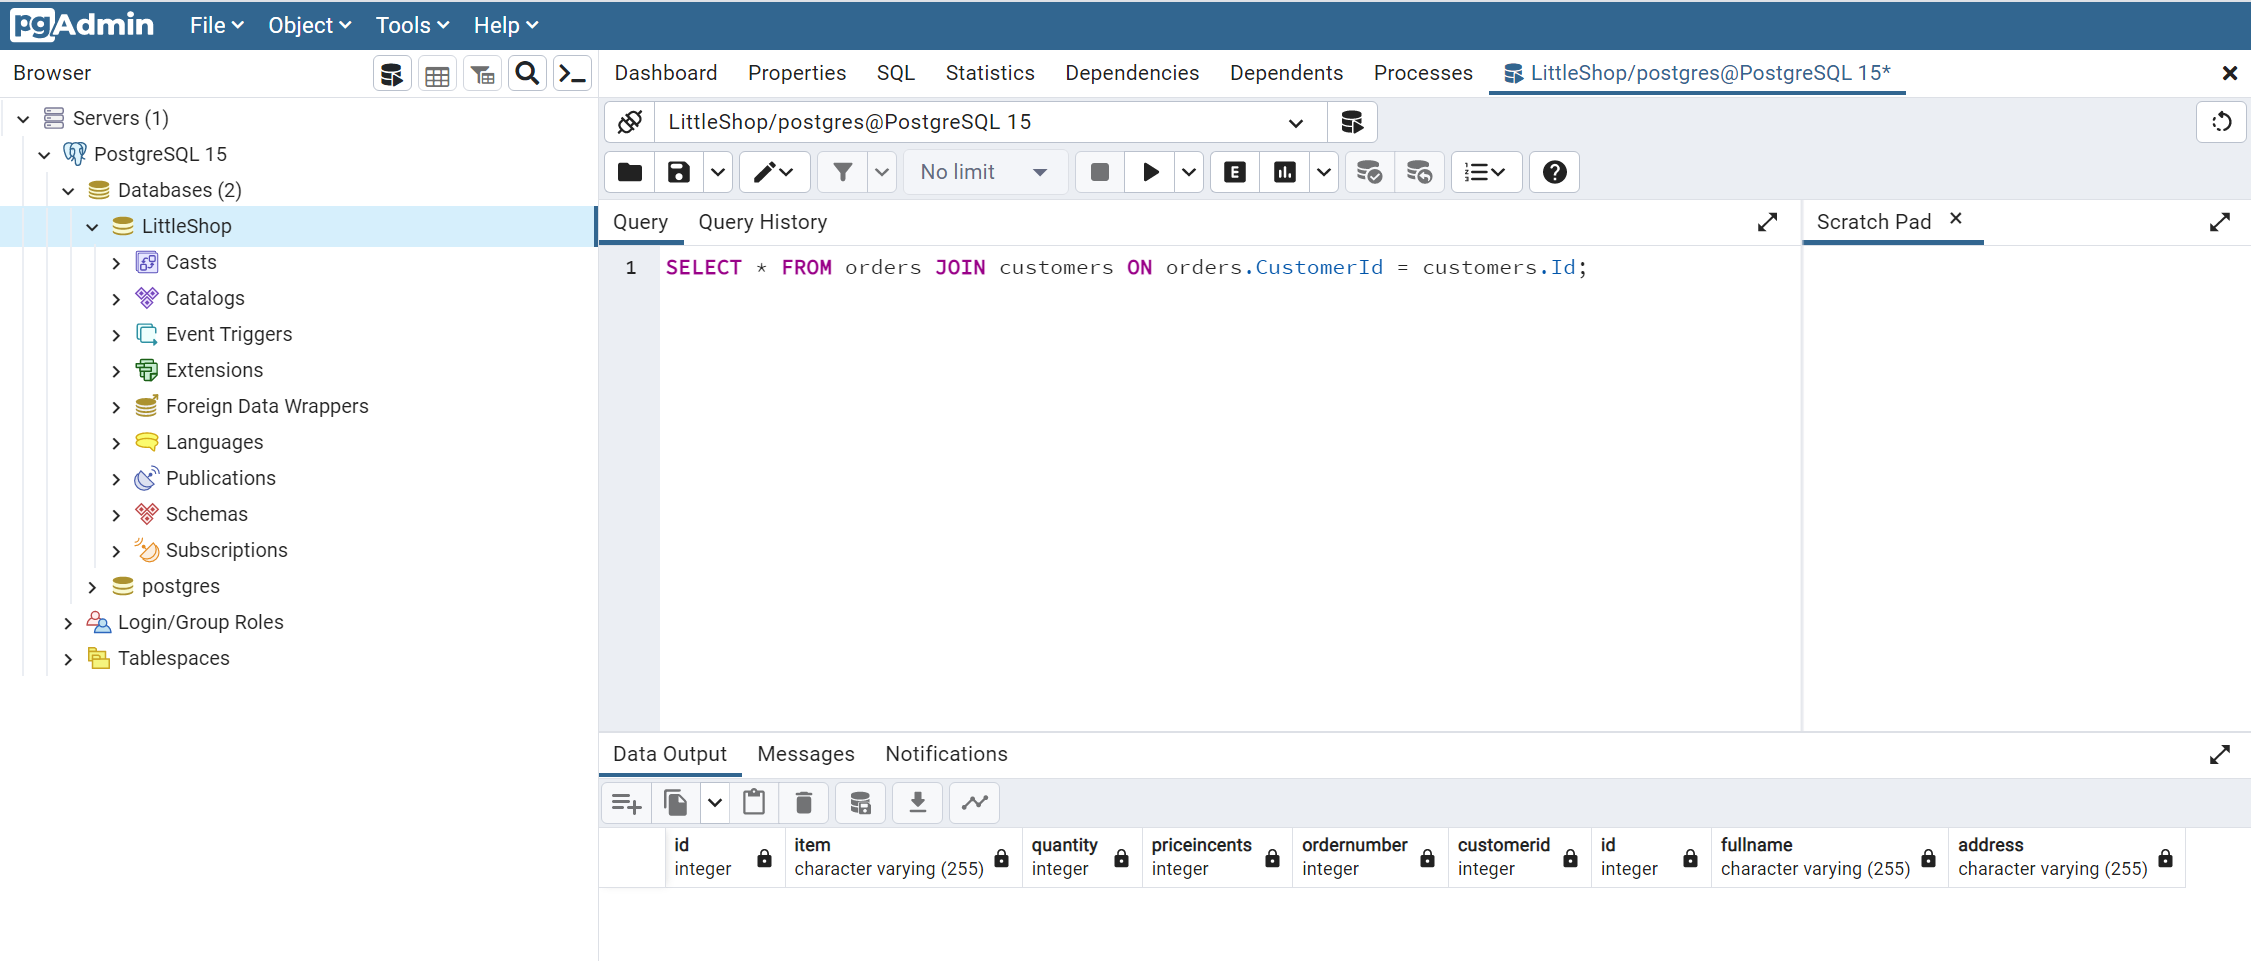
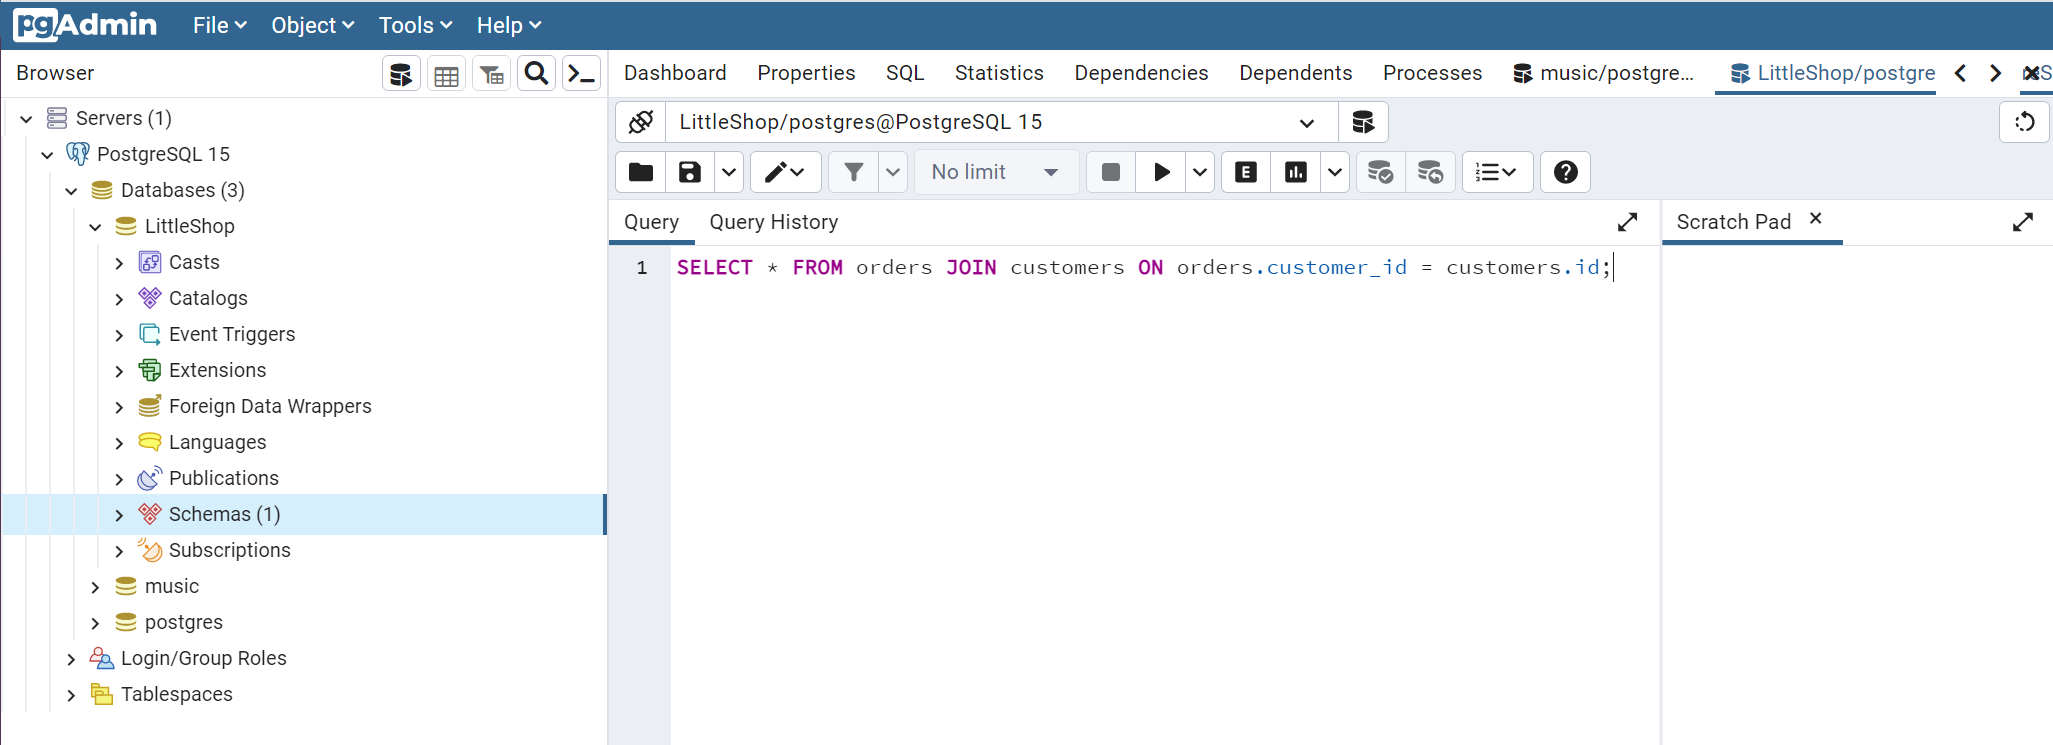
Update sql columns to snake case

diff --git a/Mod2/Lessons/Week1/SQLCRUD.md b/Mod2/Lessons/Week1/SQLCRUD.md
@@ -81,8 +81,12 @@ Occasionally, we will need to update records.  We can do that with the `UPDATE` 
 >
 > Be ready to share out!
 > 
-> ![](/Mod2/Images/Week1/SQL_UPDATE.png)
-
+##### Update Donovan Castle's Address
+```SQL
+UPDATE customers
+SET address = '1700 Emerson Dr'
+WHERE full_name = 'Domovan Castle';
+```
 ** Instructor Note ** Be sure to point out that if we forget the `WHERE`, all records in the table will be updated! You could type out an update without a where clause, ask for predictions from students, and then run it and show how everything changes so folks can really feel what happens.
 
 ### Practice UPDATE
@@ -107,8 +111,19 @@ Seeing the state of an entire table is great, and with a small dataset, it might
 > * Given these examples, what does `*` indicate?
 > 
 > Be ready to share out!
-> 
-> ![](/Mod2/Images/Week1/SQL_SELECT.png)
+>##### Option 1
+>```SQL
+>SELECT full_name FROM customers;
+>```
+>
+>##### Option 2
+>```SQL
+>SELECT full_name, address FROM >customers WHERE id = 2;
+>```
+>##### Option 3
+>```SQL
+>SELECT * from customers WHERE id = 2;
+>```
 
 ### Practice SELECT
 
@@ -123,8 +138,17 @@ Seeing the state of an entire table is great, and with a small dataset, it might
 
 There are so many things we can do by combining SELECT with other commands.  We have seen how we can use SELECT and WHERE together; take a look at the examples below for some more ways of SELECTing.  Try these out on your tables to explore what they do!
 
-![](/Mod2/Images/Week1/SQL_ORDERBY.png)
+##### Order the result alphabetically by first name
+```SQL
+SELECT * FROM customers ORDER BY full_name;
+```
 
+##### Return only the item column from all of customer 1's orders, order the result by price, from high to low
+```SQL
+SELECT item FROM orders
+WHERE customer_id = 1
+ORDER BY price_in_cents DESC;
+```
 ## Check for Understanding
 * Imagine you are in an interview.  The interviewer asks: How would you describe CRUD? (make sure to use examples!)
 * Why do we need to use a `WHERE` when deleting or updating records?

diff --git a/Mod2/Labs/Week3/SQLJoins.md b/Mod2/Labs/Week3/SQLJoins.md
@@ -12,21 +12,21 @@ DROP TABLE books, patrons;
 
 CREATE TABLE patrons (
 	id serial PRIMARY KEY,
-	FirstName varchar(50),
-	LastName varchar(50),
-	PhoneNumber varchar(10)
+	first_name varchar(50),
+	last_name varchar(50),
+	phone_number varchar(10)
 );
 
 CREATE TABLE books (
 	id serial PRIMARY KEY,
-	Title varchar(255),
-	Author varchar(255),
-	CheckedOutBy int REFERENCES patrons
+	title varchar(255),
+	author varchar(255),
+	checked_out_by int REFERENCES patrons
 );
 
 INSERT INTO 
   patrons ( 
-    FirstName, LastName, PhoneNumber
+    first_name, last_name, phone_number
   )
 VALUES
 ('Zoe', 'Farrell', '1231231234'),
@@ -35,7 +35,7 @@ VALUES
 
 INSERT INTO 
   books ( 
-    Title, Author, CheckedOutBy
+    title, author, checked_out_by
   )
 VALUES
 ('Winter Counts', 'David Heska Wanbli Weiden', 1),
@@ -53,7 +53,7 @@ Write a `JOIN` query to join the patrons and books data that only returns books 
 <details><summary>Spoiler</summary><br/>
 
 ```SQL
-SELECT books.*, patrons.* FROM books JOIN patrons ON books.CheckedOutBy = patrons.id;
+SELECT books.*, patrons.* FROM books JOIN patrons ON books.checked_out_by = patrons.id;
 ```
 
 </details>
@@ -63,7 +63,7 @@ Write a `JOIN` query to join the patrons and books data that returns all books, 
 <details><summary>Spoiler</summary><br/>
 
 ```SQL
-SELECT books.*, patrons.* FROM books LEFT JOIN patrons ON books.CheckedOutBy = patrons.id;
+SELECT books.*, patrons.* FROM books LEFT JOIN patrons ON books.checked_out_by = patrons.id;
 ```
 
 </details>
@@ -97,7 +97,7 @@ This is a tricky question, try building your query bit by bit instead of trying 
 <details><summary>Spoiler</summary><br/>
 
 ```SQL
-select count(*) from books LEFT JOIN patrons ON books.CheckedOutBy = patrons.id WHERE patrons.PhoneNumber = '1111111111' AND author = 'David Heska Wanbli Weiden';
+select count(*) from books LEFT JOIN patrons ON books.checked_out_by = patrons.id WHERE patrons.phone_number = '1111111111' AND author = 'David Heska Wanbli Weiden';
 ```
 
 </details>

diff --git a/Mod2/Lessons/Week1/IntroToDatabases.md b/Mod2/Lessons/Week1/IntroToDatabases.md
@@ -120,7 +120,7 @@ The Query Tool is where we will interact with our database.  Today, you are goin
 > ![](/Mod2/Images/Week1/CreateDb5.png)
 > 3. Again, In the query window, recreate the command below - be very careful of spelling and semicolons!  When you have created the query, click the 'play' icon to run the query.  
 > ![](/Mod2/Images/Week1/CreateDb6.png)
-> 4. To verify that you have created your tables appropriately, run this query: `SELECT * FROM orders JOIN customers ON orders.CustomerId = customers.Id;`.  Your output should look like this:  
+> 4. To verify that you have created your tables appropriately, run this query: `SELECT * FROM orders JOIN customers ON orders.customer_id = customers.id;`.  Your output should look like this:  
 > ![](/Mod2/Images/Week1/CreateDb7.png)
 
 If you run into any error messages or issues - reach out to an instructor!

diff --git a/Mod2/Labs/Week1/SQLCRUD.md b/Mod2/Labs/Week1/SQLCRUD.md
@@ -8,16 +8,16 @@ DROP TABLE books, patrons;
 
 CREATE TABLE patrons (
 	id serial PRIMARY KEY,
-	FirstName varchar(50),
-	LastName varchar(50),
-	PhoneNumber varchar(10)
+	first_name varchar(50),
+	last_name varchar(50),
+	phone_number varchar(10)
 );
 
 CREATE TABLE books (
 	id serial PRIMARY KEY,
-	Title varchar(255),
-	Author varchar(255),
-	CheckedOutBY int REFERENCES patrons
+	title varchar(255),
+	author varchar(255),
+	checked_out_by int REFERENCES patrons
 );
 ```
 *** End of instructor Note :) ***
